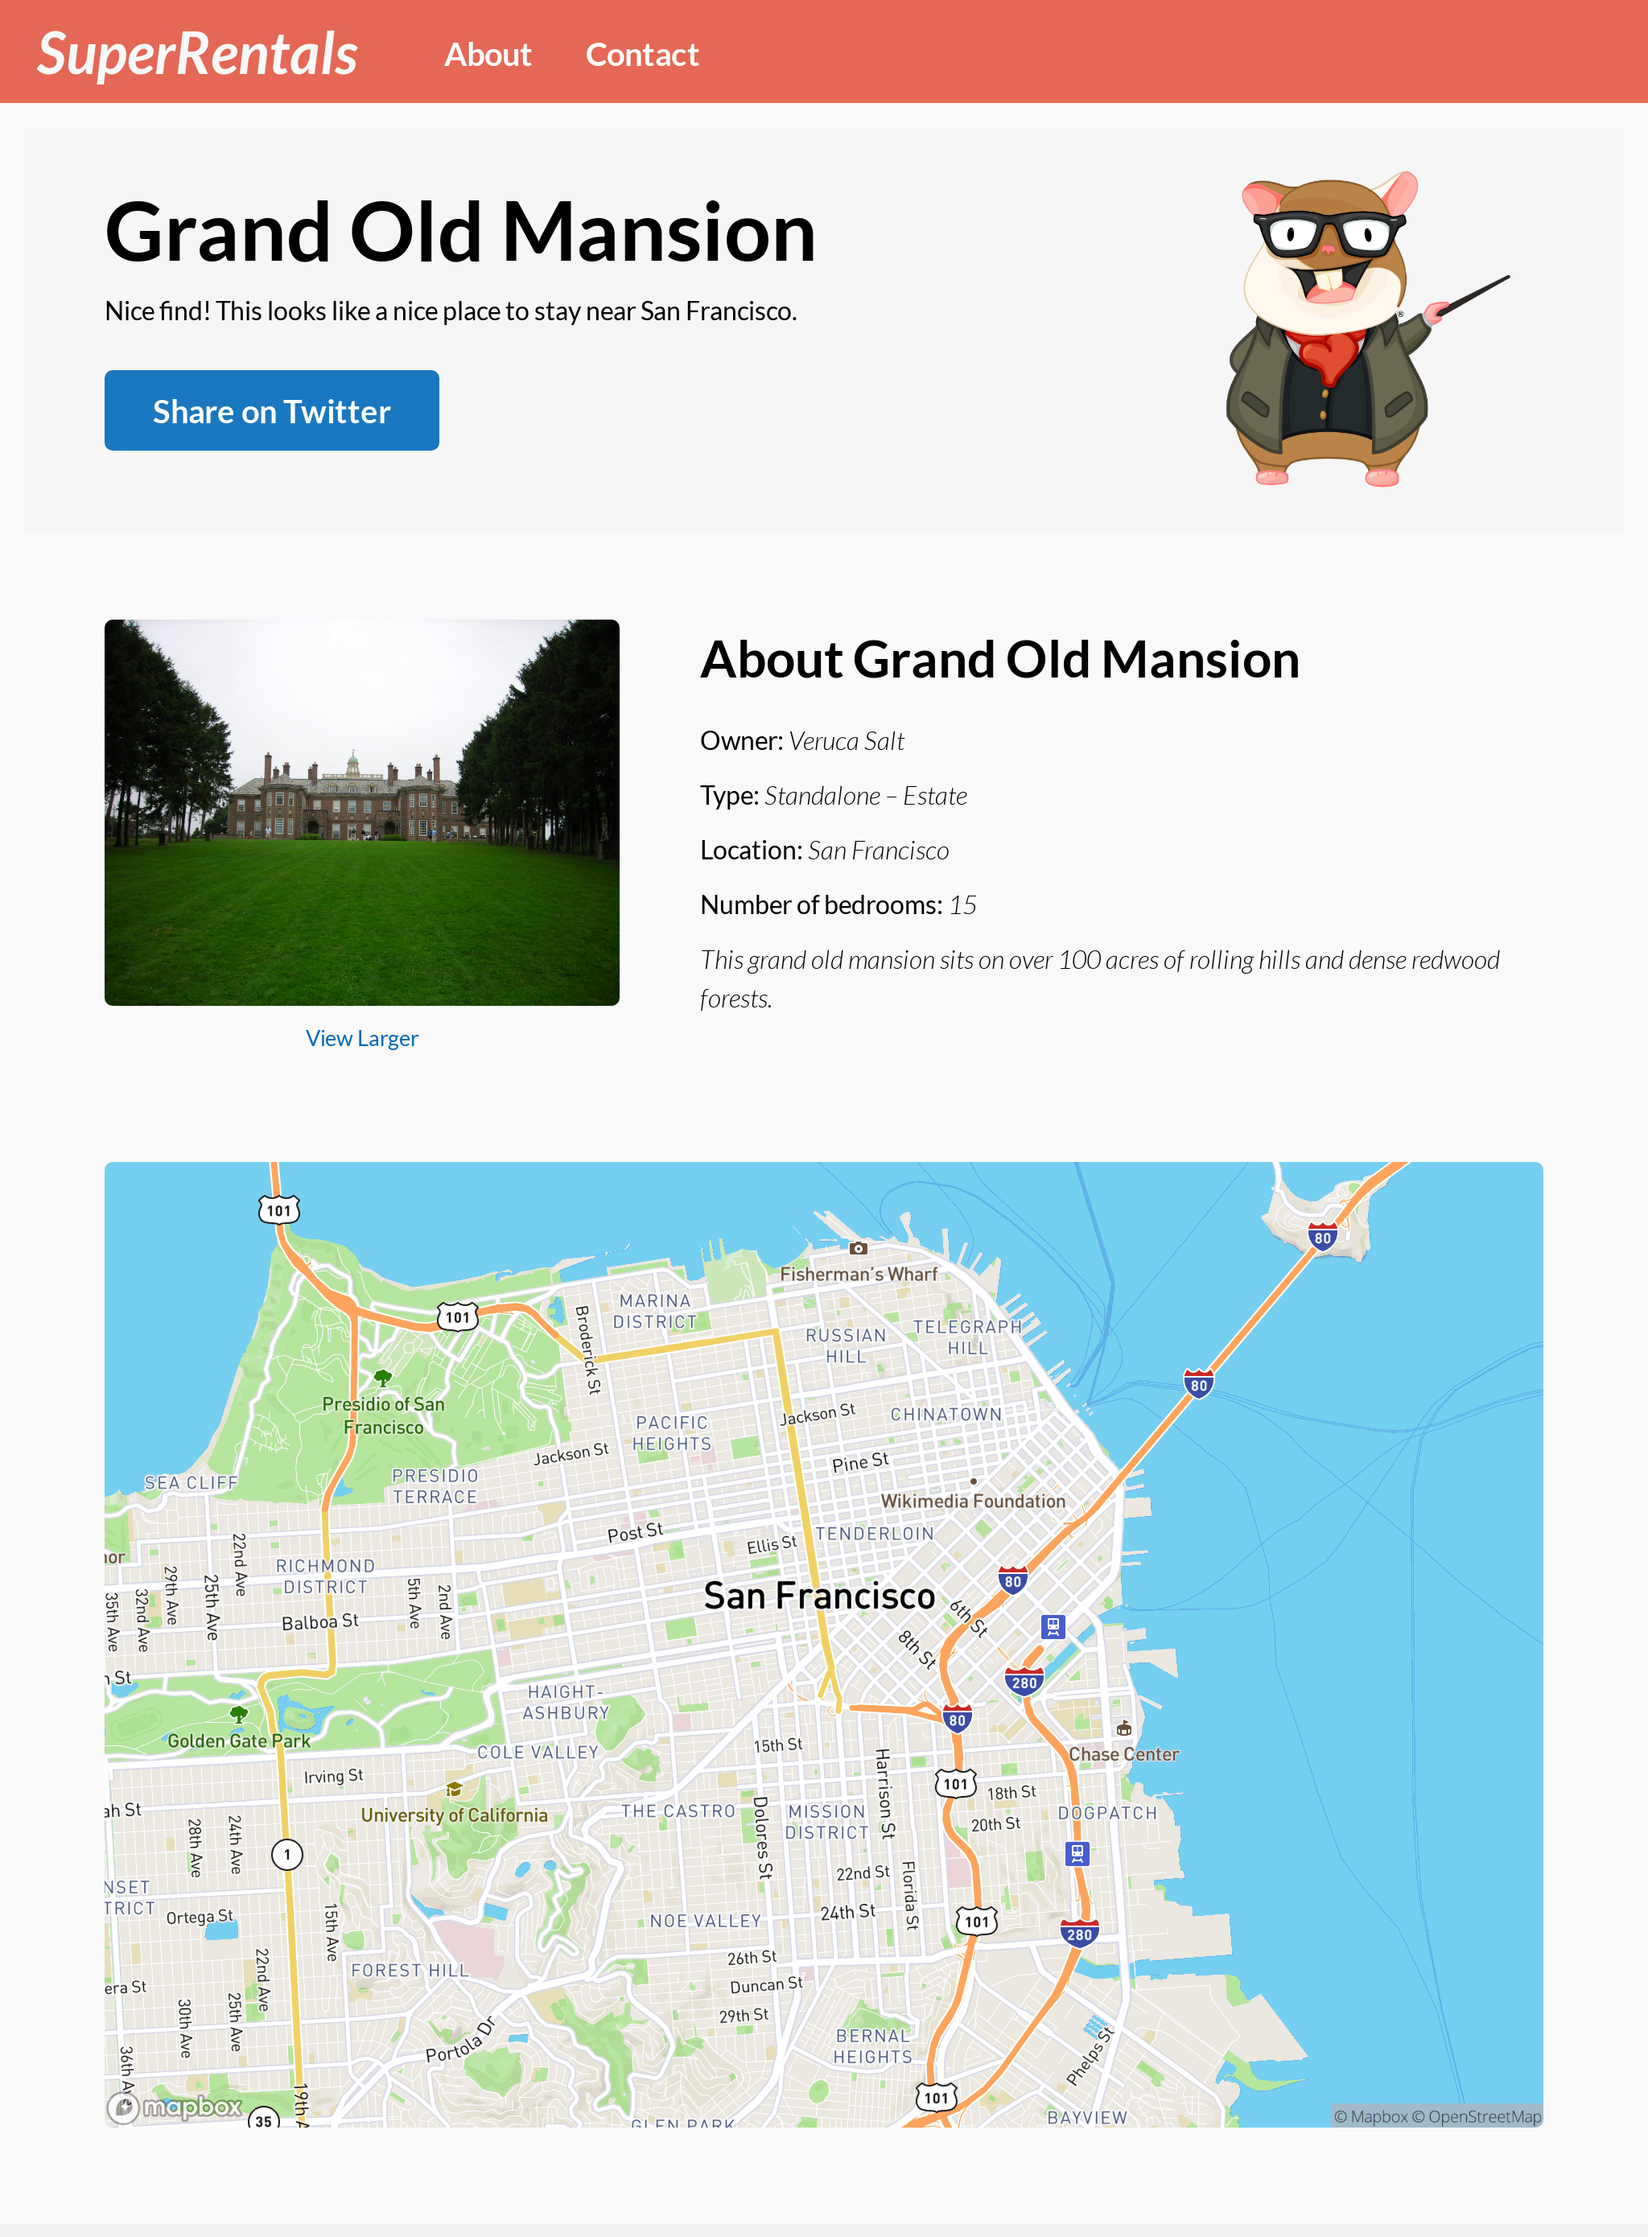
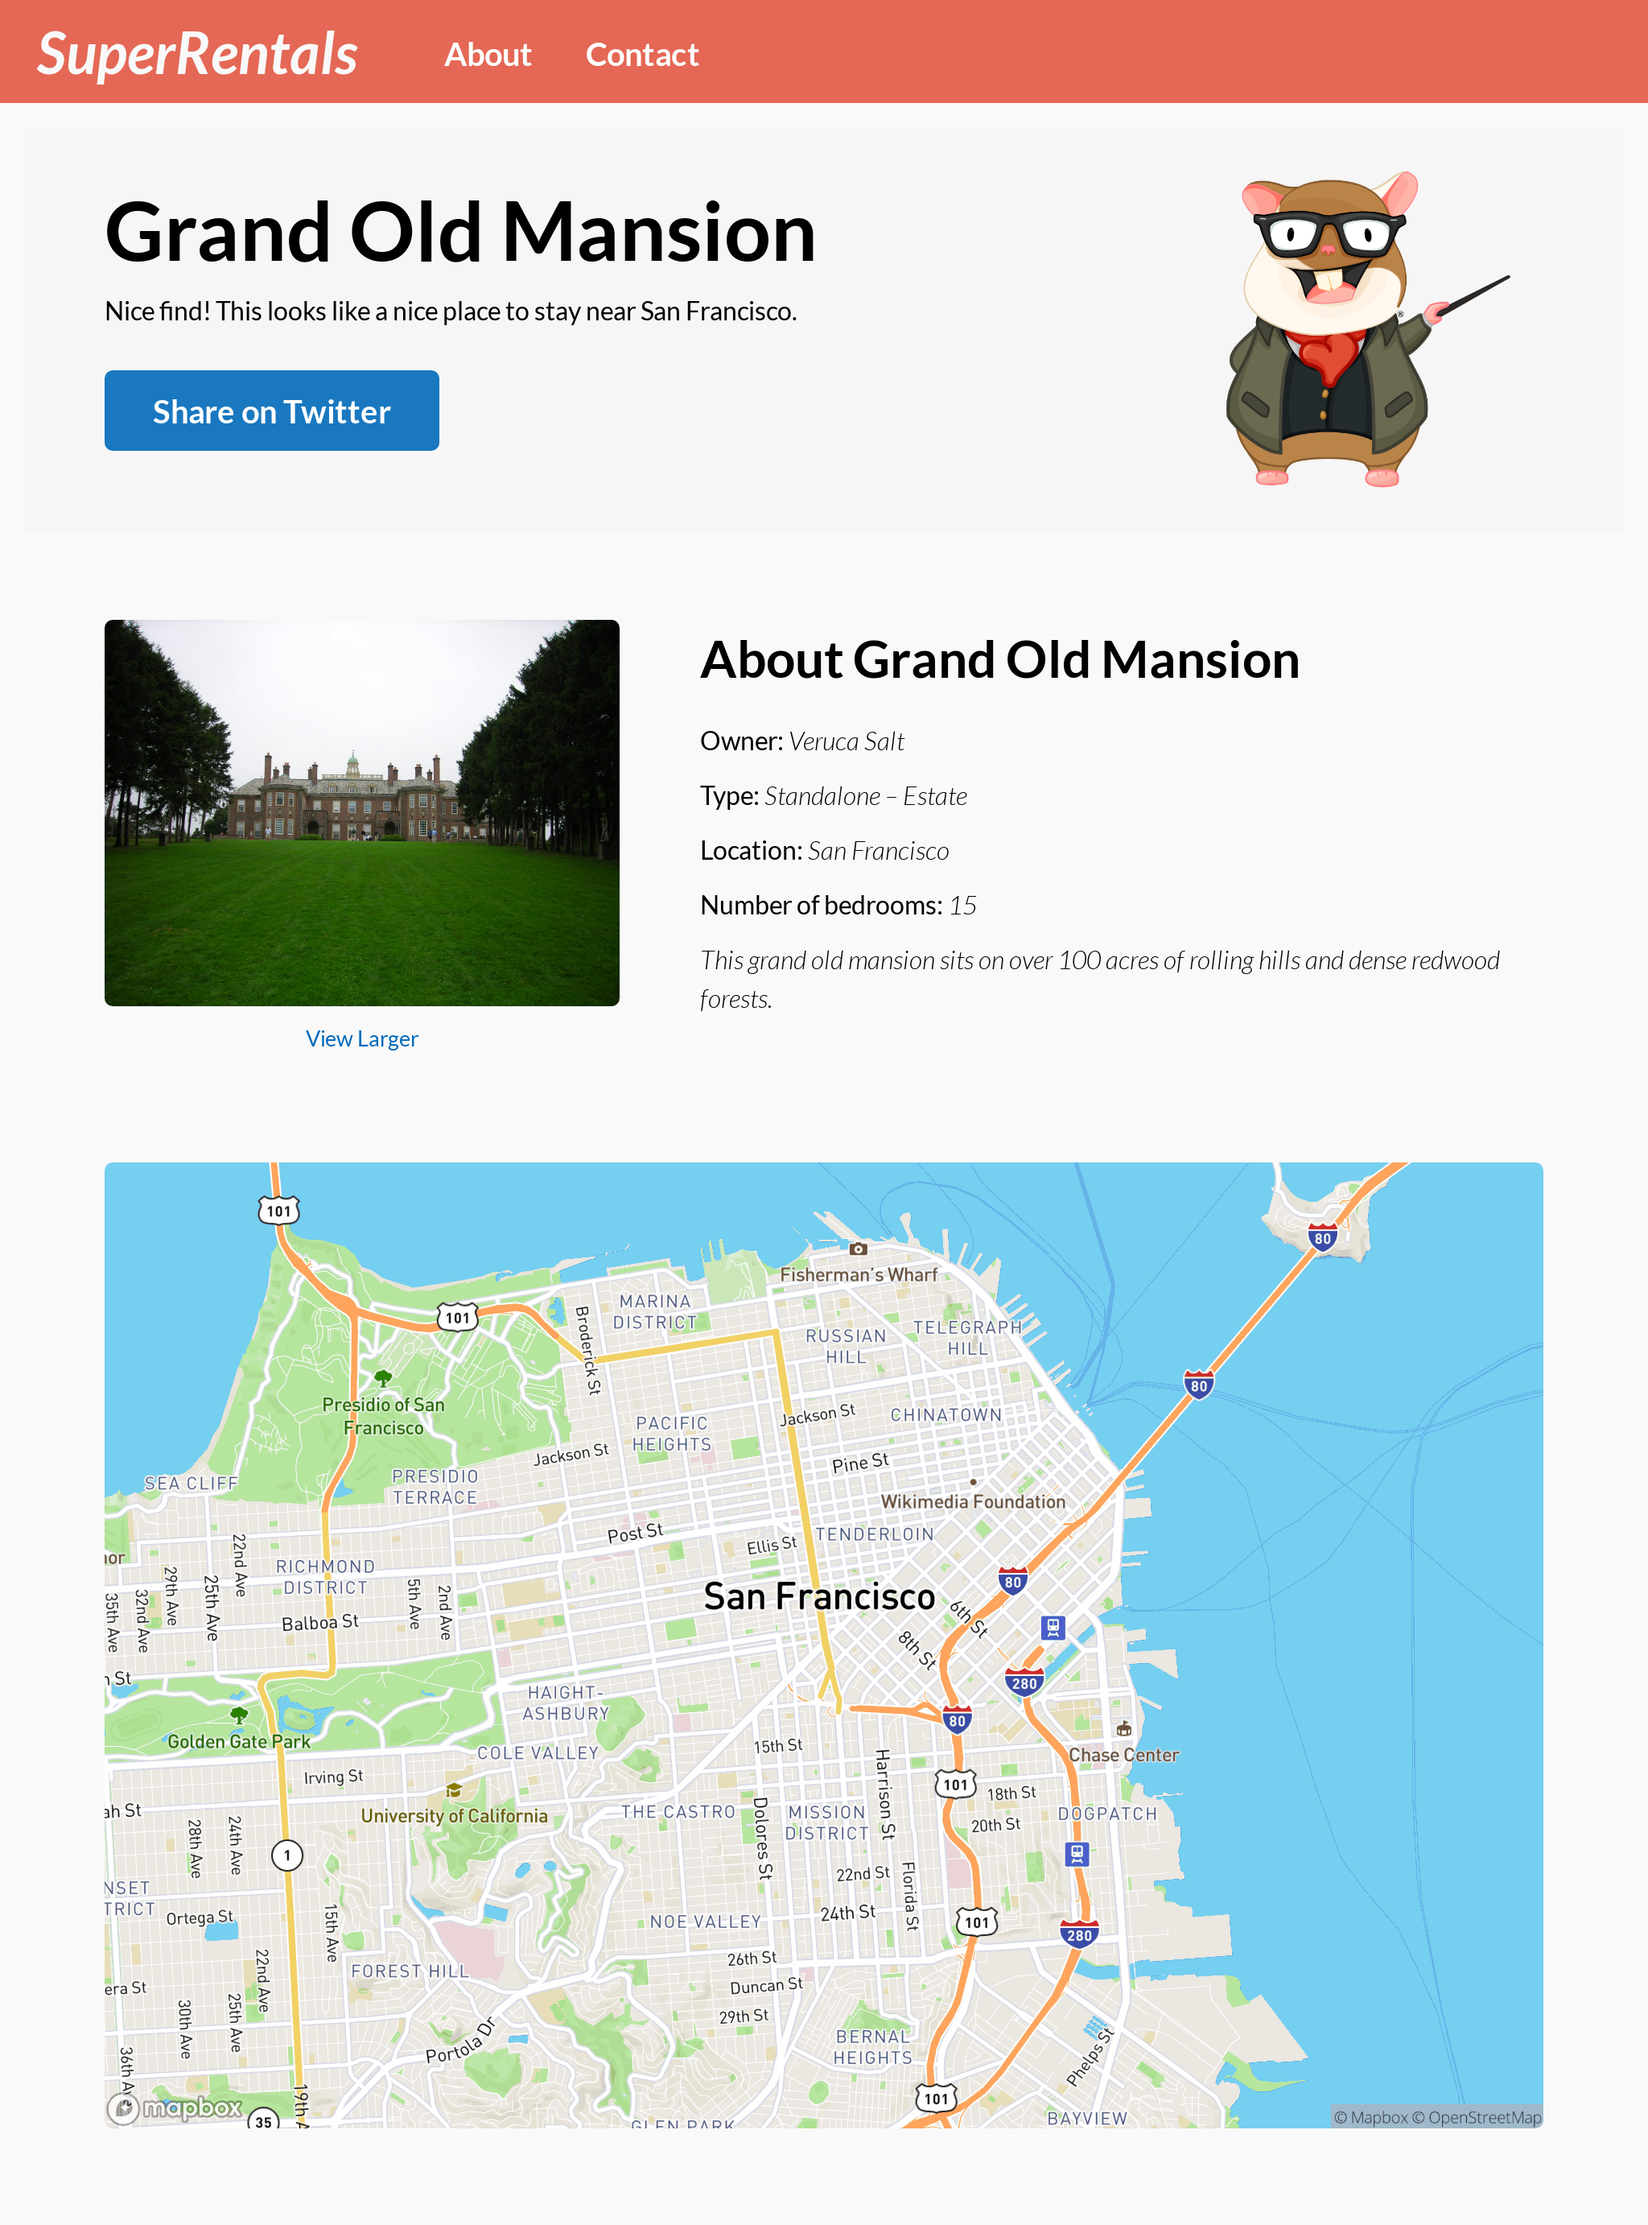
[CRON] Tuesday Oct 17, 2023
---

Commit:  ember-learn/super-rentals-tutorial@671abe53c02edf43f4cd128015cb9048308eea18
Script:  https://github.com/ember-learn/super-rentals-tutorial/blob/671abe53c02edf43f4cd128015cb9048308eea18/.github/workflows/build.yml
Logs:    https://github.com/ember-learn/super-rentals-tutorial/commit/671abe53c02edf43f4cd128015cb9048308eea18/checks

diff --git a/guides/release/tutorial/part-2/ember-data.md b/guides/release/tutorial/part-2/ember-data.md
@@ -357,6 +357,6 @@ The UI works exactly the same as before as well, just with much less code!
 
 <img src="/images/tutorial/part-2/ember-data/homepage@2x.png" alt="The homepage works exactly the same as before, but with much less code!" width="1024" height="1130">
 
-<img src="/images/tutorial/part-2/ember-data/detailed@2x.png" alt="The details page works exactly the same as before, but with much less code!" width="1024" height="1390">
+<img src="/images/tutorial/part-2/ember-data/detailed@2x.png" alt="The details page works exactly the same as before, but with much less code!" width="1024" height="1382">
 
 EmberData offers many, many features (like managing the _relationships_ between different models) and there's a lot more we can learn about it. For example, if your backend's have some inconsistencies across different endpoints, EmberData allows you to define more specific, per-model adapters and serializers too! We are just scratching the surface here. If you want to learn more about EmberData, check out [its own dedicated section](../../../models/) in the guides!

diff --git a/guides/release/tutorial/part-2/route-params.md b/guides/release/tutorial/part-2/route-params.md
@@ -2,7 +2,7 @@
 
 Now that we are fetching real data from our "server", let's add a new feature — dedicated pages for each of our rentals:
 
-<img src="/images/tutorial/part-2/route-params/grand-old-mansion@2x.png" alt="The Super Rentals app (rentals page) by the end of the chapter" width="1024" height="1390">
+<img src="/images/tutorial/part-2/route-params/grand-old-mansion@2x.png" alt="The Super Rentals app (rentals page) by the end of the chapter" width="1024" height="1382">
 
 While adding these rental pages, you will learn about:
 
@@ -474,7 +474,7 @@ module('Acceptance | super rentals', function (hooks) {
 
 Now, when we visit `http://localhost:4200/rentals/grand-old-mansion`, this is what we see:
 
-<img src="/images/tutorial/part-2/route-params/grand-old-mansion@2x.png" alt="A dedicated page for the Grand Old Mansion" width="1024" height="1390">
+<img src="/images/tutorial/part-2/route-params/grand-old-mansion@2x.png" alt="A dedicated page for the Grand Old Mansion" width="1024" height="1382">
 
 And if we run our tests now...
 
